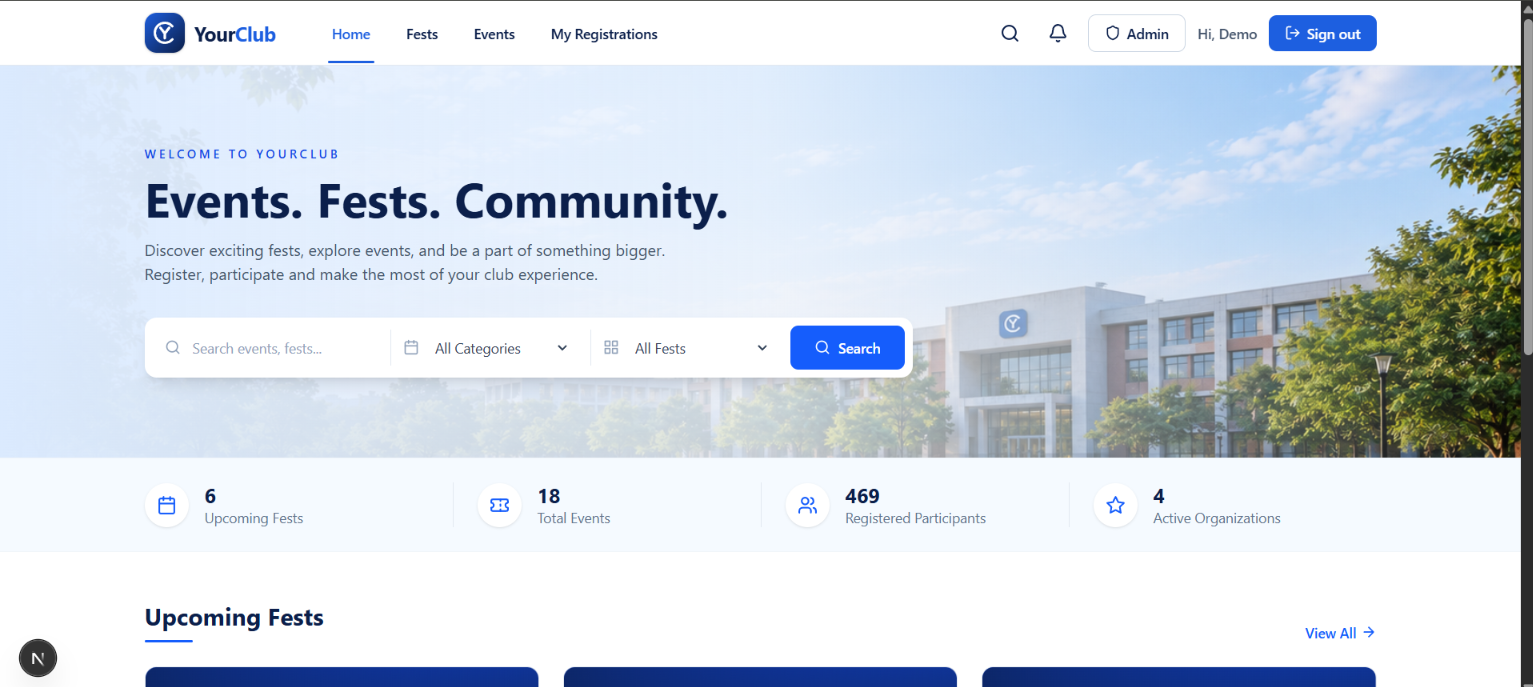
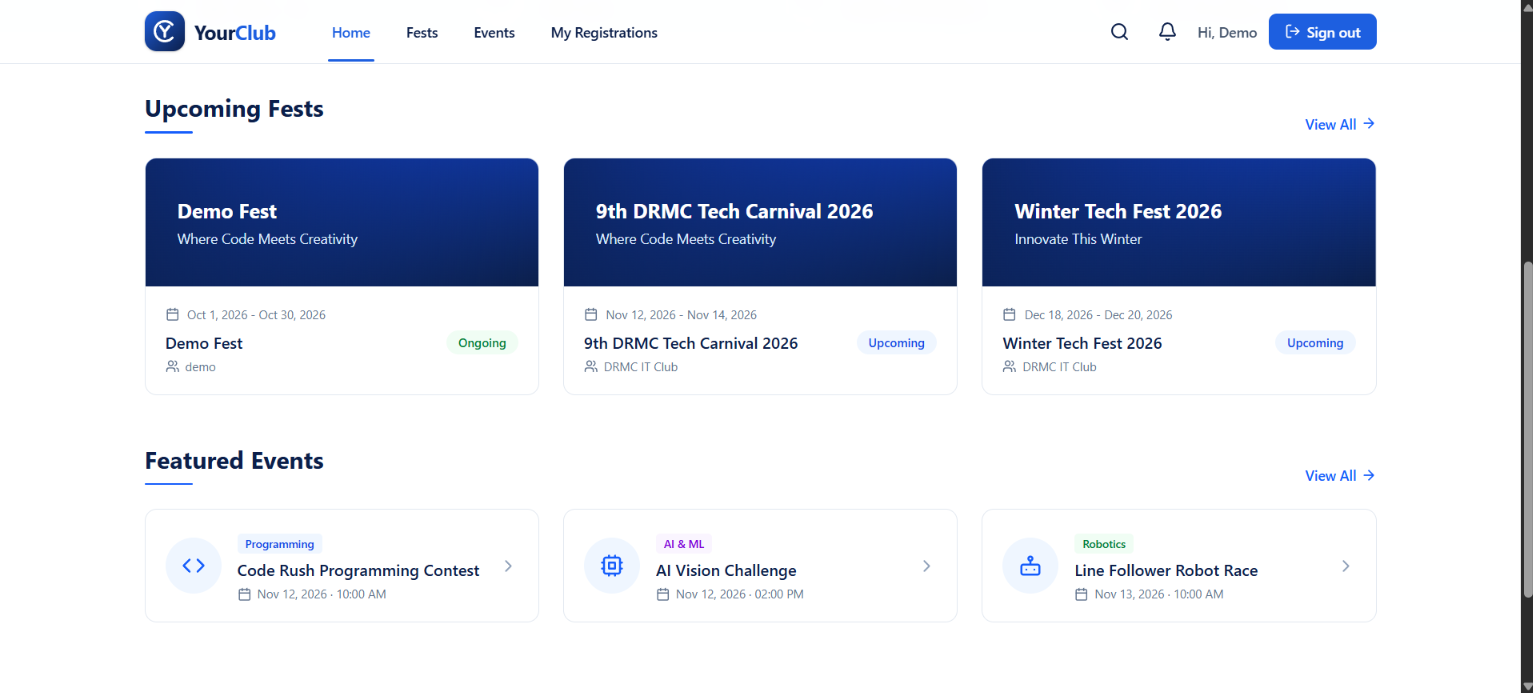
footer fixed and made responsive

diff --git a/src/components/layout/Footer.tsx b/src/components/layout/Footer.tsx
@@ -10,7 +10,6 @@ export default function Footer() {
         <div className="flex gap-5 font-medium text-navy">
           <Link href="/fests" className="hover:text-brand">Fests</Link>
           <Link href="/events" className="hover:text-brand">Events</Link>
-          <Link href="/login" className="hover:text-brand">Organizer Login</Link>
         </div>
       </div>
     </footer>

diff --git a/src/app/globals.css b/src/app/globals.css
@@ -11,10 +11,13 @@
 
 html {
   scroll-behavior: smooth;
+  overflow-x: clip;
 }
 
 body {
   background: #ffffff;
   color: #334155;
   -webkit-font-smoothing: antialiased;
+  overflow-x: clip;
+  max-width: 100%;
 }

diff --git a/README.md b/README.md
@@ -14,16 +14,18 @@ It was built for **DRMC** (clubs such as the IT Club, Robotics Society and Scien
 - Sign up / log in with **email and password or with a Google account**
 - Browse upcoming fests and events, with search and category filters
 - Event pages with venue, schedule, fee, live seat availability and registration deadline countdown
-- One-click registration with automatic **waitlist** when an event is full
+- One-click registration: confirmed instantly when a seat is free, otherwise placed on a **waitlist**. When a seat opens up, the first person on the waitlist is confirmed automatically
 - Digital ticket with **QR code**, downloadable as a file
 - "Add to Google Calendar" link for every registered event
 - My Registrations page with the option to cancel
-- In-app notifications (registration confirmed / cancelled) with unread badge and "mark all as read"
+- In-app notifications (seat confirmed from the waitlist, cancelled or moved to the waitlist by an organizer) with unread badge and "mark all as read"
 
 **For admins**
 - Dashboard with totals, a 14-day registration trend chart, registrations by status and most popular events
 - Create, edit and delete **fests** and **events**
 - Per-event participant list with status management
+- Cancel a registration with an optional reason; the student is notified in the app
+- Seat limits enforced in the database, so a full event cannot be over-booked from the admin panel, the API or the Supabase dashboard
 - CSV export of participants *(verify this works before submitting)*
 - Check-in tracking
 - Users page: search all accounts, see their registrations, and delete an account
@@ -40,7 +42,7 @@ It was built for **DRMC** (clubs such as the IT Club, Robotics Society and Scien
 | Supabase client | `@supabase/supabase-js`, `@supabase/ssr` |
 | UI libraries | `lucide-react` (icons), `clsx`, `date-fns` |
 | Extras | `qrcode.react` (QR tickets), `papaparse` (CSV export) |
-| Hosting | **TODO:** e.g. Vercel |
+| Hosting | Vercel |
 
 ## 4. Setup Instructions
 
@@ -57,7 +59,7 @@ It was built for **DRMC** (clubs such as the IT Club, Robotics Society and Scien
    - `supabase/schema.sql` (tables, policies, triggers, views)
    - `supabase/seed.sql` (demo organizations, fests and events)
 
-   > **TODO:** these two files must be added to the repository before submission.
+   > **TODO:** these two files must be added to the repository before submission. Make sure `schema.sql` includes the `notifications` table and the registration / waitlist triggers, not only the base tables.
 
 3. **Create the environment file** `.env.local` in the project root:
    ```env
@@ -71,8 +73,8 @@ It was built for **DRMC** (clubs such as the IT Club, Robotics Society and Scien
 4. **Create the demo accounts** in Supabase: **Authentication → Users → Add user** (use the emails in section 6, tick "Auto Confirm User"). Then make the admin an admin:
    ```sql
    update public.profiles set role = 'admin' where email = 'admin@yourclub.dev';
-   admin login:  "admin@yourclub.dev", password: "Admin@12345"
    ```
+   Admin login: `admin@yourclub.dev` / `Admin@12345`
 
 5. **(Optional) Enable Google login.** Email/password login works without this step; the "Continue with Google" button only works after it is configured.
    1. In [Google Cloud Console](https://console.cloud.google.com), configure the **OAuth consent screen** (External, scopes `email`, `profile`, `openid`) and set it to **In production** so any Google account can sign in.
@@ -94,13 +96,7 @@ It was built for **DRMC** (clubs such as the IT Club, Robotics Society and Scien
 
 ## 5. Deployment URL
 
-**TODO:** https://your-app.vercel.app
-
-After deploying, add this URL in two places so Google login works on the live site:
-- Google Cloud: **Authorized JavaScript origins**
-- Supabase: **Site URL** and **Redirect URLs** (`https://your-app.vercel.app/**`)
-
-Also add the three environment variables from step 3 to the hosting provider's settings.
+**https://yourclub-lyart.vercel.app**
 
 ## 6. Demo Credentials
 
@@ -118,7 +114,7 @@ The admin panel is at `/admin`. Admin access is only available through the demo 
 | [Supabase](https://supabase.com) | PostgreSQL database, authentication, Row Level Security, server-side user management |
 | Google OAuth (Google Cloud, "Sign in with Google") | Logging in and signing up with a Google account, handled through Supabase Auth |
 | Google Calendar (URL template link) | "Add to Google Calendar" button; no API key or login needed |
-| **TODO:** hosting provider | e.g. Vercel |
+| [Vercel](https://vercel.com) | Hosting and automatic deployment from GitHub |
 
 No paid services are required to run the project.
 
@@ -126,8 +122,8 @@ No paid services are required to run the project.
 
 AI tools were used during development, as follows:
 
-- **Claude (Anthropic)**: help with planning features, writing and debugging code (for example the notifications page, admin event/fest management, users list and account deletion, Google sign-in) and this README.
-- **TODO:** add every other AI tool you used (for example Cursor, ChatGPT, GitHub Copilot) and what you used it for. List only what you actually used.
+- **Claude (Anthropic)**: helped with planning features, writing and debugging code (for example the notifications page, admin event/fest management, users list and account deletion, Google sign-in) and this README.
+- **ChatGPT**: helped with random discussion and queries, creating home page background picture.
 
 All AI-generated code was reviewed, tested and integrated by the project author.
 
@@ -139,13 +135,13 @@ The application itself does not call any AI service at runtime.
 
 | Page | Screenshot |
 |---|---|
-| Home | ![Home](docs/screenshots/home.png) |
+| Home | ![Home](docs/screenshots/home.png)<br>![Home 2](docs/screenshots/home2.png) |
 | Login with Google button | ![Login](docs/screenshots/login.png) |
 | Events list | ![Events](docs/screenshots/events.png) |
 | Event details and registration | ![Event](docs/screenshots/event-details.png) |
-| Ticket with QR code | ![Ticket](docs/screenshots/ticket.png) |
+| Ticket with QR code | ![Ticket](docs/screenshots/ticket.png) <br>![Ticket PDF](docs/screenshots/ticket2.png) |
 | My registrations | ![My registrations](docs/screenshots/my-registrations.png) |
-| Notifications | ![Notifications](docs/screenshots/notifications.png) |
+| Notifications | ![Notifications](docs/screenshots/notifications.png)<br>![Notifications 2](docs/screenshots/notifications2.png) |
 | Admin dashboard | ![Dashboard](docs/screenshots/admin-dashboard.png) |
 | Admin events and participants | ![Admin events](docs/screenshots/admin-events.png) |
 | Admin users | ![Users](docs/screenshots/admin-users.png) |
